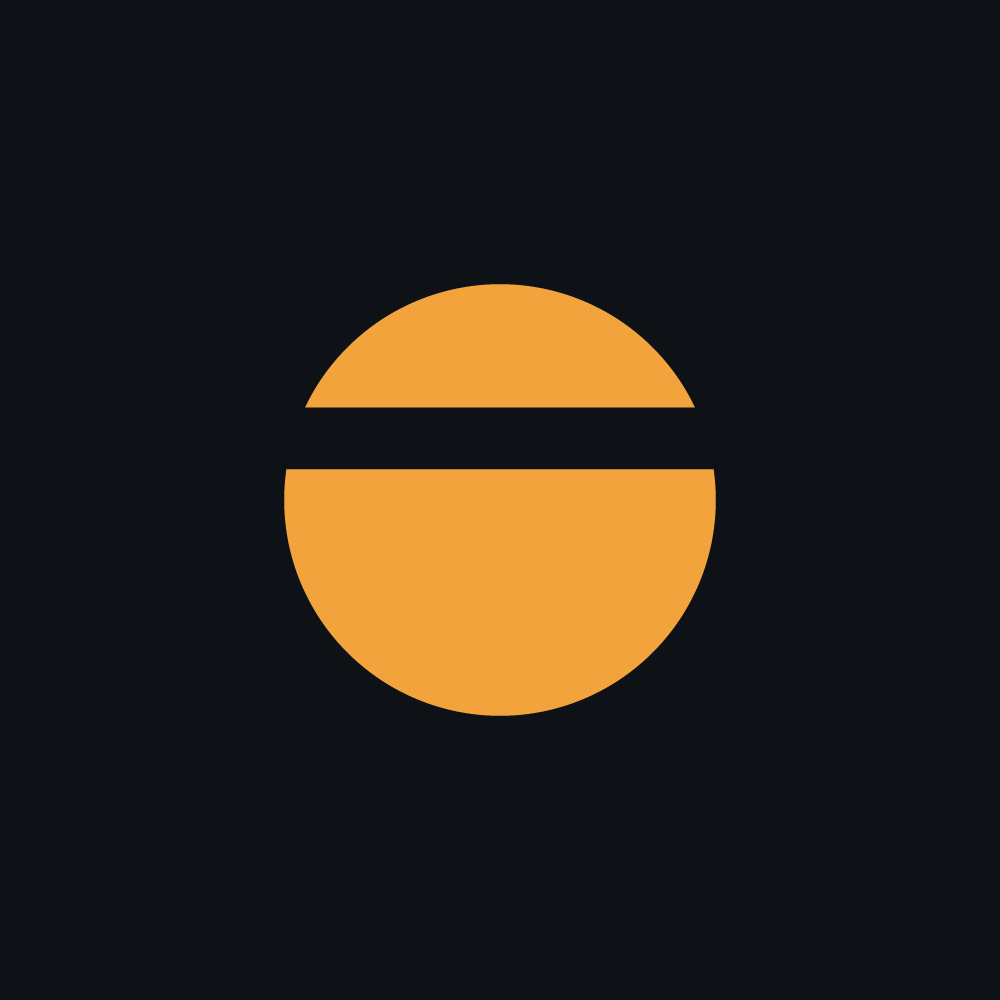
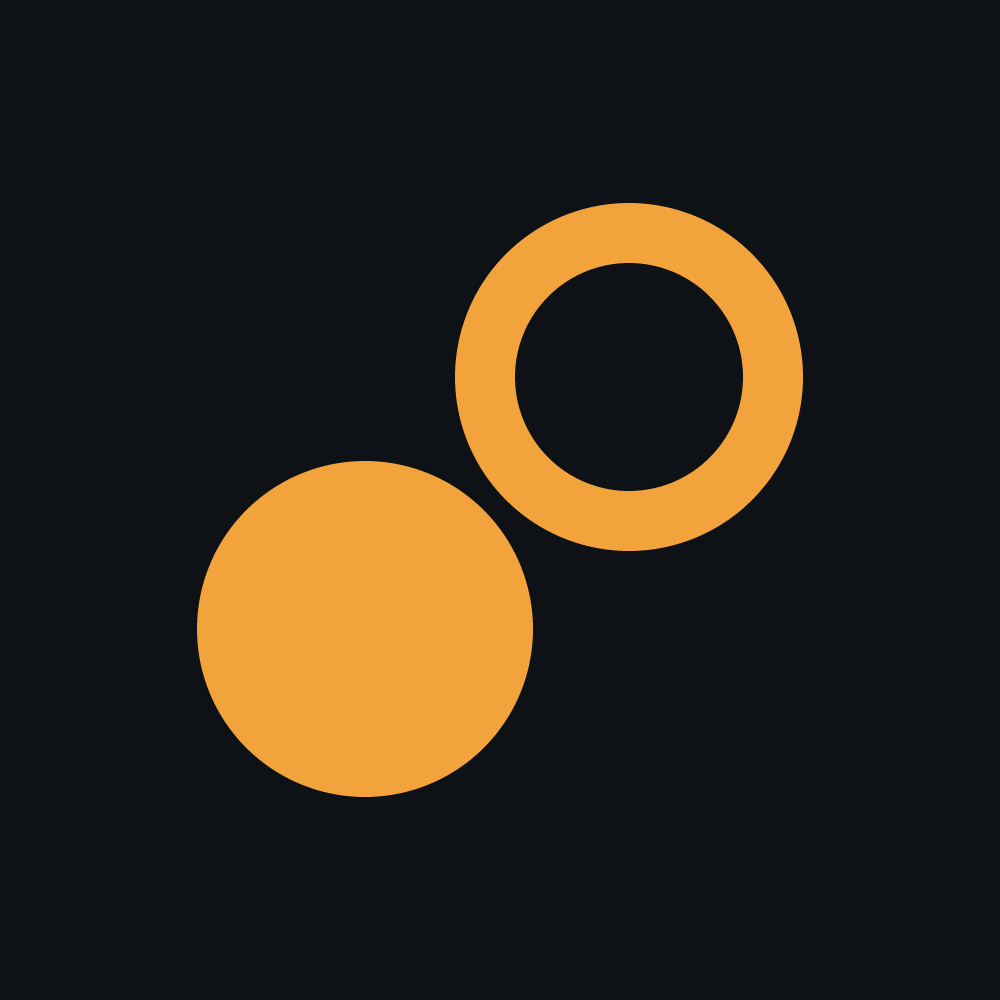
Redesign the mark: two unequal shapes, one solid and one open

Changed region(s): [[0.186, 0.186, 0.806, 0.806]]

diff --git a/brand/render.py b/brand/render.py
@@ -15,10 +15,8 @@ def seg_dist(px, py, x1, y1, x2, y2):
 
 def mark_hit(x, y):
     """The mark in its native 120x120 space."""
-    d = hypot(x - 60.0, y - 60.0)
-    if abs(d - 35.0) <= 3.5: return True          # the share, outlined
-    if d <= 35.0 and y >= 59.0: return True       # the floor, solid up to the strike
-    if seg_dist(x, y, 14.0, 52.0, 106.0, 52.0) <= 3.5: return True  # the strike
+    if hypot(x - 37.5, y - 81.5) <= 28.0: return True        # the floor: solid, it has value
+    if abs(hypot(x - 81.5, y - 39.5) - 24.0) <= 5.0: return True  # the upside: open, may be empty
     return False
 
 def payoff_hit(x, y, w, h):

diff --git a/brand/README.md b/brand/README.md
@@ -2,16 +2,18 @@
 
 ## The mark
 
-A circle is one share. The gap through it is the strike.
+Two shapes. One solid, one open.
 
-Below the gap is solid: the **floor**, everything up to the strike. Above it, separated, is the
-**upside**. Two pieces that were one piece — which is the entire protocol in one shape.
+The **floor** is the solid disc. Whatever happens, it is worth something — it tracks the share all
+the way down. The **upside** is the open ring. Below the strike it is worth exactly nothing, and the
+hole in the middle is that. They sit on a rising diagonal.
 
-The split sits above centre on purpose. The floor holds most of the value in any series struck near
-spot, so it should look like it does.
+The first version of this mark was a circle cut evenly in half. It was wrong, and the reason is
+worth writing down: **the two tokens are not symmetric.** One is capped, the other is unbounded; one
+always has value, the other frequently has none. A shape that divides something evenly says
+"divided" and stops there. Two unequal shapes, one filled and one hollow, say which is which.
 
-The name is Sanskrit — **आर्क (ārka)**, sun, ray — and the mark reads as a sun on a horizon if you
-want it to. That is a bonus, not the brief.
+It is also not a coin, which most of the timeline is.
 
 ## Files
 
